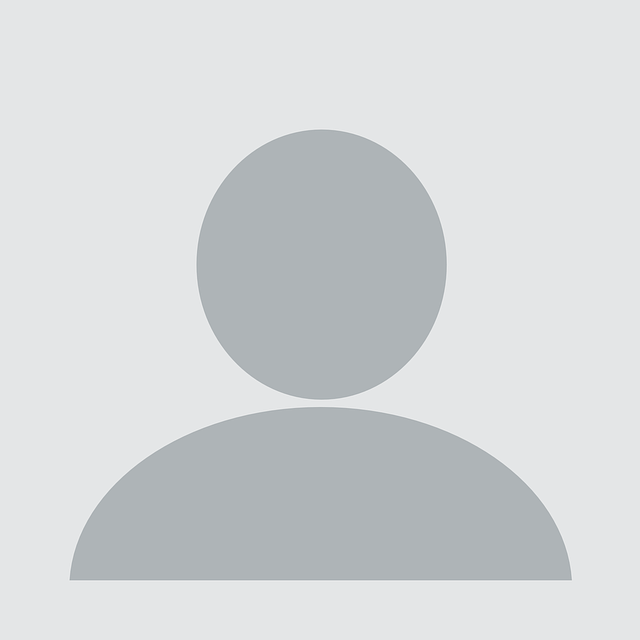
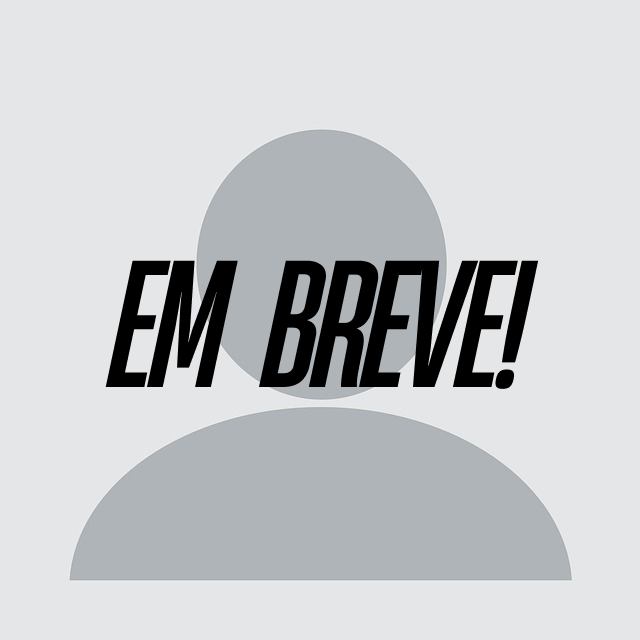
remove: fotos palestrantes

Changed region(s): [[0.4062, 0.4062, 0.8438, 0.625], [0.1562, 0.4062, 0.375, 0.625]]

diff --git a/src/components/Palestrantes/Palestrantes.tsx b/src/components/Palestrantes/Palestrantes.tsx
@@ -19,27 +19,27 @@ const speakers: SpeakerData[] = [
     cargo: "Founder & CEO da Space Terra, Representante NASA Space Challenge, Administradora, Consultora, Astronauta Análoga, Palestrante, Chef de Cozinha, etc.",
     descricao: "Founder & CEO Space Terra| TEDx Speaker | Representante NASA Space Challenge (world winner) | Administradora, MBA em finanças| Especialista em inovação na educação | Consultora de negócios internacionais e espaciais |Astronauta Análoga | Palestrante | Chef de cozinha internacional| Membra da “Bold Community - Comunidade de Visionários” – Programa do Governo da Áustria e do Coletivo \"Nasa Space\" - EUA.",
     instagram: "@lekahattori @spaceterrahub",
-    imageUrl: "./palestrantes/leka-hattori.jpg",
+    imageUrl: "./palestrantes/perfil.png",
   },
   {
     nome: "Iasmim Oliveira",
     cargo: "Software Engineer no iFood, especialista em soluções Front-end e Mentora",
     descricao: "Staff Software Engineer no iFood, especialista em soluções Front-end. Apaixonada por automatização e IA aplicada a fluxos de desenvolvimento.Mentora no Programadores do Amanhã, minha missão é unir código, arte e impacto social para acelerar inovação real.",
     instagram: "@oliv_code",
-    imageUrl: "./palestrantes/iasmin-oliveira.jpeg",
+    imageUrl: "./palestrantes/perfil.png",
   },
   {
     nome: "Mateus Carvalho",
     cargo: "Fundador e CEO da MobApps",
     descricao: "Mateus Carvalho é fundador da Mobapps, empresa referência no Brasil no desenvolvimento de aplicativos White Label para mobilidade, com presença internacional e mais de 25 colaboradores. Natural do sertão baiano, Mateus atua no mercado digital há mais de 17 anos. Iniciou sua trajetória criando sites em sua cidade natal e, ao longo dos anos, participou de projetos de destaque para empresas como OAS, Ivete Sangalo, Cozinhas Itatiaia, além de aplicativos para a Ambev e o Governo da Bahia. \n Vencedor da competição nacional Campus Mobile, que o levou ao Vale do Silício, e campeão de hackathons, Mateus é hoje um exemplo de como a tecnologia pode abrir caminhos inimagináveis. Ele inspira pela sua resiliência e pela prova de que é possível construir grandes coisas partindo de lugares pequenos. \n Hoje, além de liderar sua empresa, compartilha sua história para motivar desenvolvedores a também despertarem seu lado empreendedor — mostrando que, com visão e atitude, é possível transformar código em impacto real no mundo.",
     instagram: "@mateuscarvalho.tech ",
-    imageUrl: "./palestrantes/MateusCarvalho.JPG",
+    imageUrl: "./palestrantes/perfil.png",
   },
   {
     nome: "Priscila Araújo",
     cargo: "Desenvolvedora, Técnica e Pesquisadora em IA",
     descricao: "Desenvolvedora de software desde 2018, tecnica em automação pelo IFBA, estudante de ciência da computação na UFBA e pesquisadora em Inteligencia Artificial e Otimização na Ford Motor Company. Além de anos de experiência no mercado de trabalho, fiz parte de iniciativas da Google, Alura, entre outros, sempre sendo destaque em curriculo, pesquisa e formação.",
-    imageUrl: "/palestrantes/priscila-araujo.jpeg",
+    imageUrl: "/palestrantes/perfil.png",
     instagram: "@prihcaraujo",
   },
   {
@@ -47,14 +47,14 @@ const speakers: SpeakerData[] = [
     cargo: "Game designer, Desenvolvedor de jogos, Artista e Empresário",
     descricao: "Graduado no Bacharelado Interdisciplinar em Artes com concentração em Artes e Tecnologias Contemporâneas na Universidade Federal da Bahia. Aprendeu a desenvolver jogos ainda na adolescência, de forma autodidata, através de tutoriais online. Fundou seu estúdio em 2018, onde já publicou mais de 15 jogos e experiências artísticas digitais. Está na posição de vice-presidente da BIND, coletivo de desenvolvedores de jogos da Bahia, desde 2023. Irlan também já atuou como professor de desenvolvimento de jogos.",
     instagram: "@bragiestudios",
-    imageUrl: "./palestrantes/irlan.png",
+    imageUrl: "./palestrantes/perfil.png",
   },
   {
     nome: "Eduarda Bango",
     cargo: "Produtora cultural, Artista e Diretora de arte",
     descricao: "Produtora cultural (audiovisual, games e eventos), artista e diretora de arte. Graduada no Bacharelado Interdisciplinar em Artes com concentração em Cinema e Audiovisual e no Bacharelado em Comunicação com habilitação em Produção Cultural, ambos na Universidade Federal da Bahia. Já ocupou cargos de direção, direção de arte, roteiro e produção em audiovisual, mas migrou para a área de games. Atua como produtora de jogos e diretora de arte na Bragi Estúdios desde 2022, onde já participou de mais de 10 jogos produzidos. Assina roteiro, direção de arte e produção do jogo MOOH.",
     instagram: "@bragiestudios",
-    imageUrl: "./palestrantes/eduarda-bango.png",
+    imageUrl: "./palestrantes/perfil.png",
   },
   // {
   //   nome: "Pachi Parra",
@@ -68,13 +68,13 @@ const speakers: SpeakerData[] = [
     cargo: "Designer de Produto Sênior, Diretor do ConDan.SSA, Artista e Mestrando em Dança",
     descricao: "Bacharel em Ciência da Computação pela UFBA e artista independente, atuo na interseção entre tecnologia, arte e produção cultural. Com experiência em UX/UI, produto, programação e marketing, já integrei equipes de startups e projetos de economia criativa, além de ter passagem pelo Movimento Empresa Júnior na InfoJr, NEJ Salvador e enquanto coordenador da SEMCOMP nos anos de 2019 e 2020. Atualmente sou aluno especial do Mestrado Profissional em Dança (PRODAN/UFBA), diretor do ConDan.SSA – Convergências em Dança Salvador e Designer de Produto Sênior na Caffeine Army, desenvolvendo produtos digitais e trabalhos que atravessam educação, inovação e criação artística.",
     instagram: "@caiovinisl",
-    imageUrl: "./palestrantes/caio-lopes.jpg",
+    imageUrl: "./palestrantes/perfil.png",
   },
   {
     nome: "Luiz Santos",
     cargo: "Desenvolvedor, Docente e Pesquisador",
     descricao: "Desenvolvedor .NET e Node.js, com experiência em arquitetura de software e micro frontends. Atuo também como docente e pesquisador, no Centro Universitário Estácio Sergipe, sendo também mestrando, em último semestre, na Universidade Federal de Sergipe.",
-    imageUrl: "/palestrantes/luiz-felipe.png",
+    imageUrl: "/palestrantes/perfil.png",
     instagram: "@luiz.cirqueira",
   },
   {
@@ -82,91 +82,91 @@ const speakers: SpeakerData[] = [
     cargo: "Engenheiro de Software Associado em Escavador",
     descricao: "Apaixonado por resolver desde cubos mágicos até quebra-cabeças mais complexos com tecnologia, Caio encontrou na área de Recuperação de Informações o campo perfeito para transformar dados em soluções práticas. Como membro do time de Busca no Escavador, ele e sua equipe estão na linha de frente da inovação, construindo soluções que permitem a produtos como o EscavAI encontrar a informação mais relevante em um universo de milhões de documentos.",
     instagram: "@caionms",
-    imageUrl: "./palestrantes/caio-nery.jpg",
+    imageUrl: "./palestrantes/perfil.png",
   },
   {
     nome: "Iran Dias",
     cargo: "Desenvolvedor Mobile Flutter",
     descricao: "Sou Desenvolvedor Mobile Flutter e iniciei minha trajetória como voluntário no IEEE Unifacs, onde rapidamente assumi papéis de liderança como Coordenador e, posteriormente, Presidente da RAS (Sociedade de Robótica e Automação). Nessa experiência, pude gerenciar projetos comunitários e liderar processos seletivos, desenvolvendo desde cedo minhas habilidades em gestão e organização.\n\nEm seguida, atuei como Tech Recruiter na INTERA, aprofundando meu conhecimento sobre o mercado de tecnologia.Depois, ingressei em uma startup de recrutamento e seleção em estágio inicial, onde fui responsável por estruturar a área de Tech Recruiting, capacitar novos profissionais e liderar a equipe, além de posteriormente atuar como Closer de R& S.\n\nMinha carreira seguiu na Mach1, escola de programação dedicada a desenvolver não apenas competências técnicas, mas também soft skills.Lá, atuei como Consultor de Carreira, auxiliando alunos a compreenderem o mercado de tecnologia e se prepararem para ele.\n\nAtualmente, sou Closer Comercial na Projétil, onde gerencio leads com ferramentas como Pipefy e Miro, realizo prospecção em plataformas como Workana e Upwork, e conduzo reuniões estratégicas com clientes.Paralelamente, também trabalho para uma cliente no exterior como Desenvolvedor Mobile Flutter.",
     instagram: "@iransd.27",
-    imageUrl: "./palestrantes/iran-dias.jpg",
+    imageUrl: "./palestrantes/perfil.png",
   },
   {
     nome: "Paulo Carvalho",
     cargo: "CEO da Avantsoft",
     descricao: "Paulo Carvalho é o atual CEO da Avantsoft. Ele se formou nos Estados Unidos em engenharia biomédica e engenharia robótica culminando em seu doutorado onde ele liderou o desenvolvimento de um robô para cirurgia de tumores cerebrais profundos. Ele co-fundou o Bigdelivery que ja entregou mais de 1 milhão de itens em Salvador e a empresa de datacenter Trygondata. As empresas dele hoje empregram mais de 100 profissionais na area de tecnologia e inovação.",
     instagram: "",
-    imageUrl: "./palestrantes/paulo.jfif",
+    imageUrl: "./palestrantes/perfil.png",
   },
   {
     nome: "Leandro Correia",
     cargo: "DBA, analista de BI, desenvolvedor e engenheiro de dados",
     descricao: "Tenho longa experiência na área de dados, atuando como DBA, analista de BI, desenvolvedor e engenheiro de dados. Sou especialista em Sistemas Distribuídos e em Inteligência Artificial, mestre em Educação e professor universitário há muitos anos. Atualmente, atuo em projetos que cobrem todo o ciclo de vida da engenharia de dados, explorando como essa disciplina e a IA se complementam na criação de soluções inovadoras.",
     instagram: "",
-    imageUrl: "./palestrantes/leandro-correia.jpg",
+    imageUrl: "./palestrantes/perfil.png",
   },
   {
     nome: "Maria E. Ribeiro",
     cargo: "Produtora cultural",
     descricao: "Maria Emília Ribeiro é Produtora Cultural formada pela Universidade Federal Fluminense (RJ) e atua na área de arte e cultura desde 2012. Passou por experiências em produção, planejamento e gestão de várias linguagens artísticas e festivais no Departamento Nacional do SESC (2014/2015 RJ), Centro de Artes da UFF (2016/2017 RJ), Espaços Culturais Boca de Brasa (2018/2019 SSA), dentre outros. De 2021 até o momento atual, é colaboradora da Vale do Dendê, desempenhando o papel de coordenação de eventos, em especial, coordenação geral do Festival Afrofuturismo desde 2022.",
     instagram: "@valedodende",
-    imageUrl: "./palestrantes/maria-ribeiro.jpeg",
+    imageUrl: "./palestrantes/perfil.png",
   },
   {
     nome: "Tata Ribeiro",
     cargo: "Atividade pela inclusão na tecnologia, formada em Design e Gestão",
     descricao: "Tais Ribeiro, também conhecida como Tata Ribeiro, é uma ativista pela inclusão de pessoas negras e mulheres no campo da tecnologia, com foco na área de jogos. Ela é a idealizadora do Black XP Game Jam, um evento que busca promover a diversidade e representatividade na indústria de jogos, indo além da etnia dos personagens e dos consumidores. Tata possui formação em design e gestão, com mestrados em ambas as áreas, e atua ativamente para que a diversidade seja refletida em todas as etapas da produção de jogos, desde a criação até o consumo, segundo o Scream Labs.",
     instagram: "",
-    imageUrl: "./palestrantes/tata-ribeiro.jpeg",
+    imageUrl: "./palestrantes/perfil.png",
   },
   {
     nome: "Mateus Aragão",
     cargo: "Sócio-fundador da Punk Hazard Studios",
     descricao: "Músico e Sound Designer. Mestre em Comunicação e Cultura Contemporânea (POSCOM/UFBA), com foco nas culturas da imagem e do som. Graduado em Direito pela Unijorge, especializou-se em Processo Civil pela Faculdade Baiana de Direito. Em 2015, iniciou sua segunda graduação no Bacharelado Interdisciplinar em Artes, com ênfase em Cinema e Audiovisual (UFBA). Também estudou roteiro na Academia Internacional de Cinema (2019) e música com ênfase em tecnologia na Pracatum. É sócio - fundador da Punk Hazard Studios, empresa especializada em áudio para projetos audiovisuais.",
     instagram: "",
-    imageUrl: "./palestrantes/mateus-aragao.png",
+    imageUrl: "./palestrantes/perfil.png",
   },
   {
     nome: "Lucas Hagen",
     cargo: "Engenheiro de Software no Google",
     descricao: "Lucas Hagen é Engenheiro de Software no Google, atuando em Belo Horizonte - MG. Integra a equipe de Kids & Families do Google no Brasil, onde se dedica ao desenvolvimento Android para implementar e garantir supervisão de dispositivos Android para crianças e adolescentes. Com 3 anos de experiência na empresa, Lucas possui um bacharelado em Ciência da Computação pela Universidade Federal do Rio Grande do Sul e também estudou na Technische Universität Kaiserslautern, na Alemanha.",
     instagram: "",
-    imageUrl: "./palestrantes/lucas-hagen.jpg",
+    imageUrl: "./palestrantes/perfil.png",
   },
   {
     nome: "Gildásio Júnior",
     cargo: "Analista Sênior de Cyber Segurança",
     descricao: "Gildásio Júnior é Analista Sênior de Cyber Segurança, focado em pesquisa de segurança, exercícios de equipe vermelha, testes de penetração, automação de segurança, elaboração de relatórios, consultoria em segurança da informação.",
     instagram: "",
-    imageUrl: "./palestrantes/gildasio-junior.jpg",
+    imageUrl: "./palestrantes/perfil.png",
   },
   {
     nome: "André Filho",
     cargo: "Engenheiro de software",
     descricao: "Engenheiro de Software desde 2019, com forte foco em desenvolvimento backend e expertise em produtos financeiros. Bacharel em Ciência da Computação",
     instagram: "",
-    imageUrl: "./palestrantes/andre-filho.jpeg",
+    imageUrl: "./palestrantes/perfil.png",
   },
   {
     nome: "Monique Silva",
     cargo: "Engenheira de Software Júnior",
     descricao: "Como Desenvolvedora Front-End, adquiriu experiência em projetos desafiadores na InfoJr e hoje integra a equipe de engenharia de software do Escavador, sendo responsável pelo desenvolvimento e manutenção de sistemas de larga escala. Apaixonada por transformar protótipos em interfaces interativas, seu foco é otimizar a experiência e garantir a melhor performance para o usuário final.",
     instagram: "@moniquesdsilva",
-    imageUrl: "./palestrantes/monique-silva.jpg",
+    imageUrl: "./palestrantes/perfil.png",
   },
   {
     nome: "Alexandre Shyjada",
     cargo: "Product designer pleno",
     descricao: "Sou Alexandre Shyjada, formado em sistemas para internet pela FIAP. Sou apaixonado por design de interfaces e tecnologia. Tenho 25 anos e estudo Design desde os 15 anos por pura criatividade e vontade de criar soluções mais agradaveis aos olhos Humanos (mesmo que fosse um slide na escola).",
     instagram: "@alex.shyjada",
-    imageUrl: "./palestrantes/alex-shyjada.webp",
+    imageUrl: "./palestrantes/perfil.png",
   },
   {
     nome: "Elder Pinelli",
     cargo: "Product Manager",
     descricao: "Empreendedor há mais de 10 anos, pude adquirir um conhecimento interdisciplinar que vai de gestão à TI. A minha graduação me permite entender os problemas com um viés tecnológico e a minha experiência de mercado me dá visão sistêmica, que facilita uma resolução a nível de negócio.",
     instagram: "",
-    imageUrl: "./palestrantes/elder-pinelli.jpeg",
+    imageUrl: "./palestrantes/perfil.png",
   },
 ]
 

diff --git a/src/components/DiaDois/DiaDois.tsx b/src/components/DiaDois/DiaDois.tsx
@@ -21,7 +21,7 @@ export default function DiaDois() {
             </div>
             <div className={styles.cardImage}>
               <Image
-                src="/palestrantes/priscila-araujo.jpeg"
+                src="/palestrantes/perfil.png"
                 alt="Botão Fale Conosco"
                 className={styles.imagem}
                 width={500}
@@ -84,35 +84,6 @@ export default function DiaDois() {
           </div>
         </div>
 
-        {/* <div className={styles.card}>
-          <h1 className={styles.titulo}>14:10 - <span>PALESTRA</span></h1>
-          <h2 className={styles.subtitulo}><i>Uma super palestra te espera... não perca!</i></h2>
-
-          <div className={styles.cardHorizontal}>
-            <div className={styles.conteudoCard}>
-              <p className={styles.sobre}>
-                <i>A SEMCOMP é feita de encontros que inspiram, e essa palestra promete ser mais um deles. Um momento para explorar ideias, compartilhar experiências e mergulhar em novas perspectivas sobre tecnologia e inovação. Seja você iniciante curioso ou veterano de código, a conversa vai trazer insights práticos, reflexões atuais e aquele empurrãozinho para pensar diferente.
-
-                  Venha de mente aberta, coração curioso e disposição para aprender junto. Afinal, é isso que faz da SEMCOMP uma semana tão especial. 🚀</i>
-              </p>
-
-              <h3 className={styles.palestranteP}>Palestrante</h3>
-              <p className={styles.nomeP}><i>A confirmar</i></p>
-            </div>
-            <div className={styles.cardImage}>
-              <Image
-                src="/palestrantes/perfil.png"
-                alt="Botão Fale Conosco"
-                className={styles.imagem}
-                width={500}
-                height={500}
-              />
-            </div>
-          </div>
-        </div> */}
-
-
-
         <div className={styles.card}>
           <h1 className={styles.titulo}>14:50 - <span>DINÂMICA</span></h1>
 
@@ -164,7 +135,7 @@ export default function DiaDois() {
             </div>
             <div className={styles.cardImage}>
               <Image
-                src="/palestrantes/iran-dias.jpg"
+                src="/palestrantes/perfil.png"
                 alt="Botão Fale Conosco"
                 className={styles.imagem}
                 width={500}
@@ -238,7 +209,7 @@ export default function DiaDois() {
             </div>
             <div className={styles.cardImage}>
               <Image
-                src="/palestrantes/leka-hattori.jpg"
+                src="/palestrantes/perfil.png"                
                 alt="Botão Fale Conosco"
                 className={styles.imagem}
                 width={500}
@@ -268,7 +239,7 @@ export default function DiaDois() {
             </div>
             <div className={styles.cardImage}>
               <Image
-                src="/palestrantes/paulo.jfif"
+                src="/palestrantes/perfil.png"
                 alt="Botão Fale Conosco"
                 className={styles.imagem}
                 width={500}
@@ -302,7 +273,7 @@ export default function DiaDois() {
             </div>
             <div className={styles.cardImage}>
               <Image
-                src="/palestrantes/iasmin-oliveira.jpeg"
+                src="/palestrantes/perfil.png"
                 alt="Botão Fale Conosco"
                 className={styles.imagem}
                 width={500}

diff --git a/src/components/DiaTres/DiaTres.tsx b/src/components/DiaTres/DiaTres.tsx
@@ -45,7 +45,7 @@ export default function DiaTres() {
             </div>
             <div className={styles.cardImage}>
               <Image
-                src="/palestrantes/luiz-felipe.png"
+                src="/palestrantes/perfil.png"
                 alt="Botão Fale Conosco"
                 className={styles.imagem}
                 width={500}
@@ -77,7 +77,7 @@ export default function DiaTres() {
             </div>
             <div className={styles.cardImage}>
               <Image
-                src="/palestrantes/irlan-e-eduarda.png"
+                src="/palestrantes/perfil.png"
                 alt="Botão Fale Conosco"
                 className={styles.imagem}
                 width={500}
@@ -103,7 +103,7 @@ export default function DiaTres() {
             </div>
             <div className={styles.cardImage}>
               <Image
-                src="/palestrantes/caio-lopes.jpg"
+                src="/palestrantes/perfil.png"
                 alt="Botão Fale Conosco"
                 className={styles.imagem}
                 width={500}
@@ -154,7 +154,7 @@ export default function DiaTres() {
             </div>
             <div className={styles.cardImage}>
               <Image
-                src="/palestrantes/leandro-correia.jpg"
+                src="/palestrantes/perfil.png"
                 alt="Botão Fale Conosco"
                 className={styles.imagem}
                 width={500}
@@ -184,7 +184,7 @@ export default function DiaTres() {
             </div>
             <div className={styles.cardImage}>
               <Image
-                src="/palestrantes/MateusCarvalho.JPG"
+                src="/palestrantes/perfil.png"
                 alt="Botão Fale Conosco"
                 className={styles.imagem}
                 width={500}

diff --git a/src/components/DiaUm/DiaUm.tsx b/src/components/DiaUm/DiaUm.tsx
@@ -40,7 +40,7 @@ export default function DiaUm() {
             </div>
             <div className={styles.cardImage}>
               <Image
-                src="/images/apresentacao.svg"
+                src="/palestrantes/perfil.png"
                 alt="Botão Fale Conosco"
                 className={styles.imagem}
                 width={500}
@@ -73,7 +73,7 @@ export default function DiaUm() {
             </div>
             <div className={styles.cardImage}>
               <Image
-                src="/palestrantes/lucas-hagen.jpg"
+                src="/palestrantes/perfil.png"
                 alt="Botão Fale Conosco"
                 className={styles.imagem}
                 width={500}
@@ -99,7 +99,7 @@ export default function DiaUm() {
             </div>
             <div className={styles.cardImage}>
               <Image
-                src="/palestrantes/caio-nery.jpg"
+                src="/palestrantes/perfil.png"
                 alt="Botão Fale Conosco"
                 className={styles.imagem}
                 width={500}
@@ -203,7 +203,7 @@ export default function DiaUm() {
             </div>
             <div className={styles.cardImage}>
               <Image
-                src="/palestrantes/priscila-araujo.jpeg"
+                src="/palestrantes/perfil.png"
                 alt="Botão Fale Conosco"
                 className={styles.imagem}
                 width={500}
@@ -231,7 +231,7 @@ export default function DiaUm() {
             </div>
             <div className={styles.cardImage}>
               <Image
-                src="/palestrantes/gildasio-junior.jpg"
+                src="/palestrantes/perfil.png"
                 alt="Botão Fale Conosco"
                 className={styles.imagem}
                 width={500}
